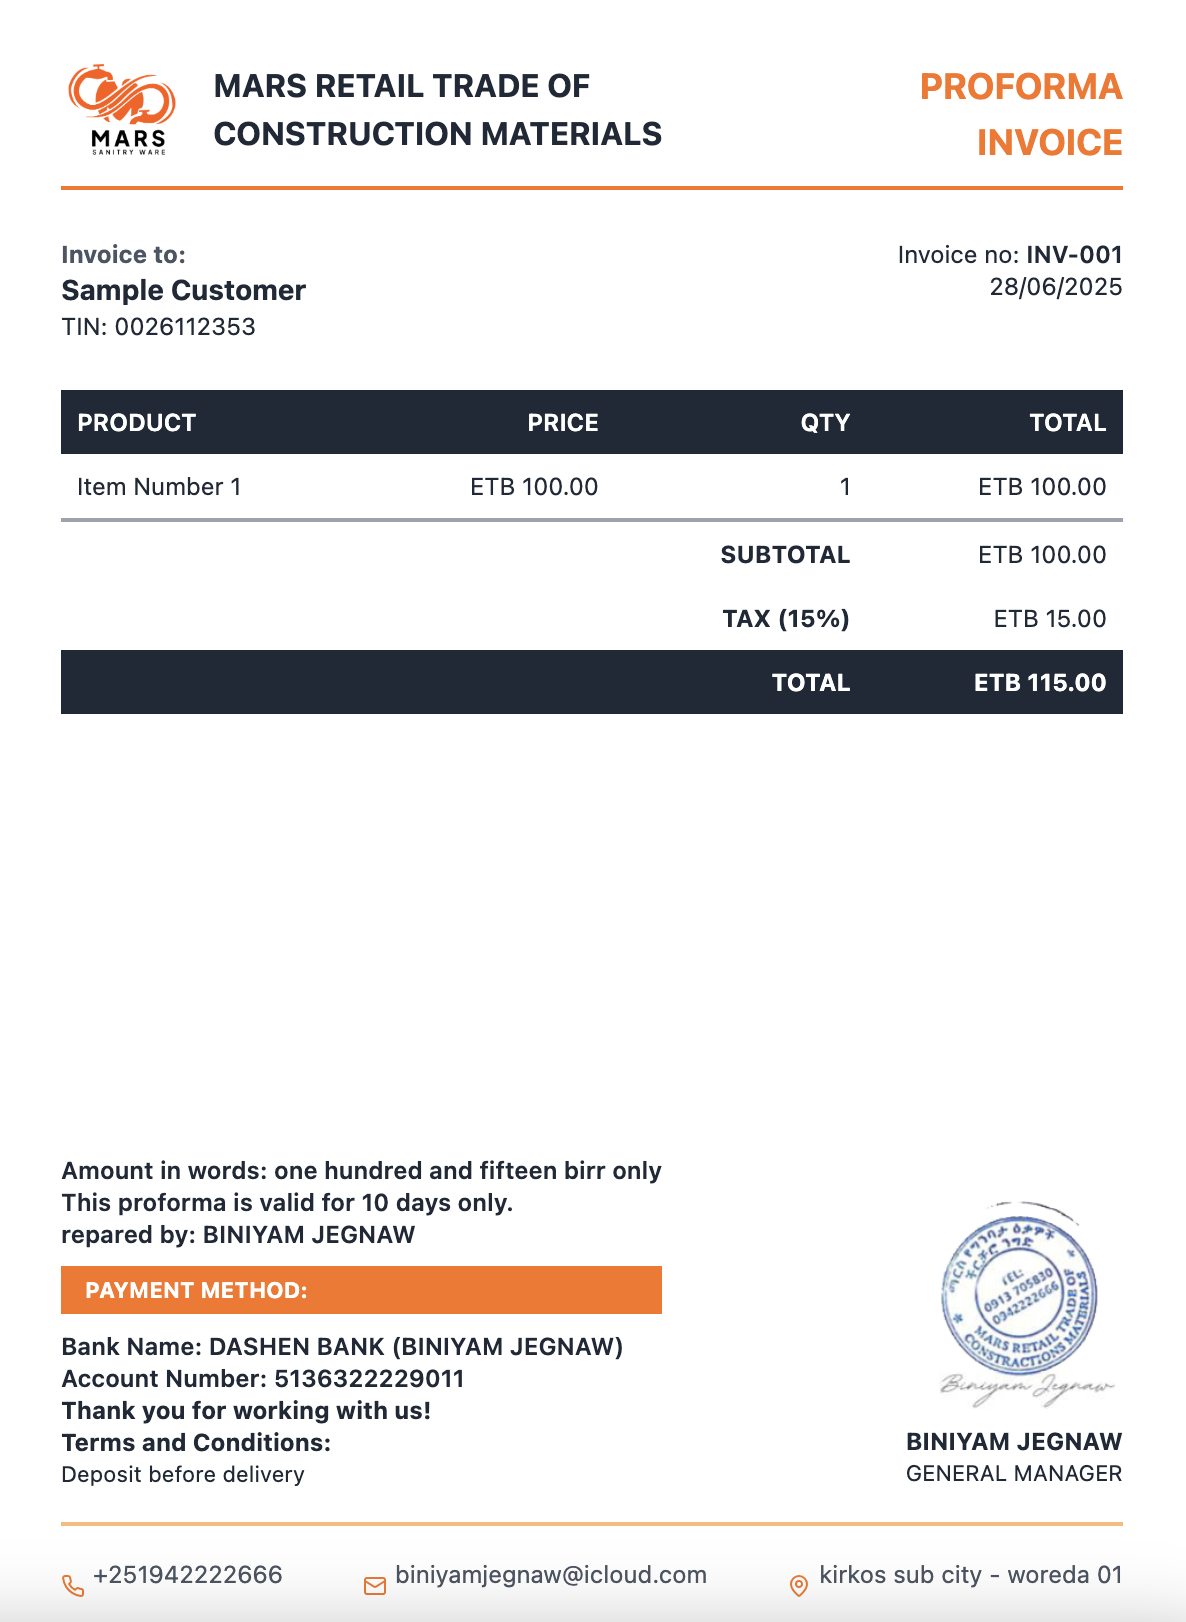
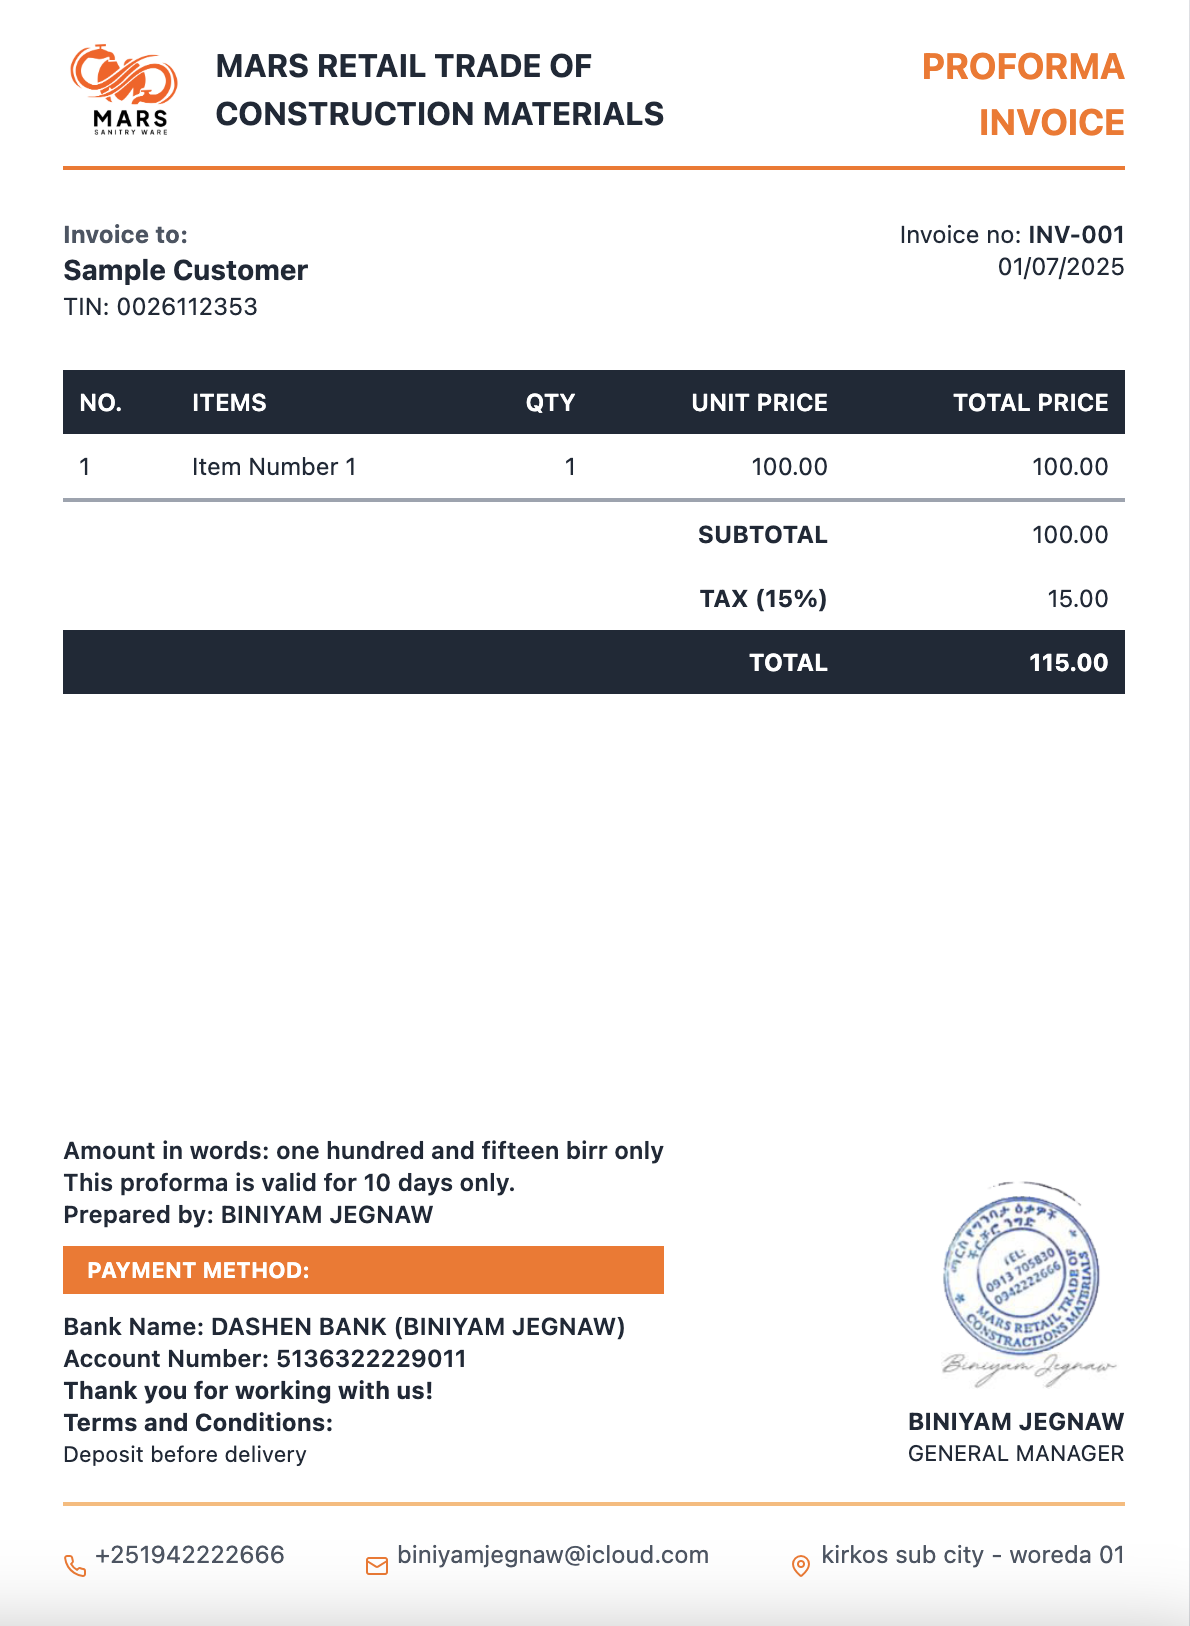
Refactor proforma templates to update table headers and pricing format

Changed region(s): [[0.0312, 0.0308, 0.9671, 0.4624], [0.0312, 0.6782, 0.9671, 0.9864], [0.9983, 0.0, 1.0, 1.0]]

diff --git a/components/templates/proforma-template-2.jsx b/components/templates/proforma-template-2.jsx
@@ -183,38 +183,40 @@ const ProformaTemplate2 = ({ data }) => {
               <table className="w-full text-left">
                 <thead>
                   <tr className="border-b-2 border-gray-200">
-                    <th className="p-2 text-sm font-semibold text-gray-500 uppercase">Product</th>
-                    <th className="p-2 text-right text-sm font-semibold text-gray-500 uppercase">Price</th>
-                    <th className="p-2 text-right text-sm font-semibold text-gray-500 uppercase">Qty</th>
-                    <th className="p-2 text-right text-sm font-semibold text-gray-500 uppercase">Total</th>
+                    <th className="p-2 text-sm font-semibold text-gray-500 uppercase">NO.</th>
+                    <th className="p-2 text-sm font-semibold text-gray-500 uppercase">ITEMS</th>
+                    <th className="p-2 text-right text-sm font-semibold text-gray-500 uppercase">QTY</th>
+                    <th className="p-2 text-right text-sm font-semibold text-gray-500 uppercase">UNIT PRICE</th>
+                    <th className="p-2 text-right text-sm font-semibold text-gray-500 uppercase">TOTAL PRICE</th>
                   </tr>
                 </thead>
                 <tbody>
                   {pageItems.map((item, index) => (
                     <tr key={index} className="border-b border-gray-100">
+                      <td className="p-2 text-sm">{index + 1}</td>
                       <td className="p-2 text-sm">{item.product}</td>
-                      <td className="p-2 text-right text-sm">ETB {Number.parseFloat(item.price || 0).toFixed(2)}</td>
                       <td className="p-2 text-right text-sm">{item.qty || 0}</td>
-                      <td className="p-2 text-right text-sm">ETB {((item.price || 0) * (item.qty || 0)).toFixed(2)}</td>
+                      <td className="p-2 text-right text-sm">{Number.parseFloat(item.price || 0).toFixed(2)}</td>
+                      <td className="p-2 text-right text-sm">{((item.price || 0) * (item.qty || 0)).toFixed(2)}</td>
                     </tr>
                   ))}
                 </tbody>
                 {pageIndex === paginatedItems.length - 1 && (
                   <tfoot>
                     <tr>
-                      <td colSpan="2" />
+                      <td colSpan="3" />
                       <td className="p-2 text-right text-sm text-gray-600">Subtotal</td>
-                      <td className="p-2 text-right text-sm">ETB {subtotal.toFixed(2)}</td>
+                      <td className="p-2 text-right text-sm">{subtotal.toFixed(2)}</td>
                     </tr>
                     <tr>
-                      <td colSpan="2" />
+                      <td colSpan="3" />
                       <td className="p-2 text-right text-sm text-gray-600">Tax ({data.taxRate}%)</td>
-                      <td className="p-2 text-right text-sm">ETB {taxAmount.toFixed(2)}</td>
+                      <td className="p-2 text-right text-sm">{taxAmount.toFixed(2)}</td>
                     </tr>
                     <tr className="font-bold">
-                      <td colSpan="2" />
+                      <td colSpan="3" />
                       <td className="p-2 text-right text-base">Total</td>
-                      <td className="p-2 text-right text-base">ETB {total.toFixed(2)}</td>
+                      <td className="p-2 text-right text-base">{total.toFixed(2)}</td>
                     </tr>
                   </tfoot>
                 )}

diff --git a/components/templates/proforma-template-4.jsx b/components/templates/proforma-template-4.jsx
@@ -193,38 +193,40 @@ const ProformaTemplate4 = ({ data, notValid }) => {
               <table className="w-full text-left">
                 <thead>
                   <tr className="bg-green-900 text-white">
-                    <th className="p-2 font-semibold text-xs">PRODUCT</th>
-                    <th className="p-2 text-right font-semibold text-xs">PRICE</th>
+                    <th className="p-2 font-semibold text-xs">NO.</th>
+                    <th className="p-2 font-semibold text-xs">ITEMS</th>
                     <th className="p-2 text-right font-semibold text-xs">QTY</th>
-                    <th className="p-2 text-right font-semibold text-xs">TOTAL</th>
+                    <th className="p-2 text-right font-semibold text-xs">UNIT PRICE</th>
+                    <th className="p-2 text-right font-semibold text-xs">TOTAL PRICE</th>
                   </tr>
                 </thead>
                 <tbody>
                   {pageItems.map((item, index) => (
                     <tr key={index} className="border-b border-green-200">
+                      <td className="p-2 text-xs">{index + 1}</td>
                       <td className="p-2 text-xs">{item.product}</td>
-                      <td className="p-2 text-right text-xs">ETB {Number.parseFloat(item.price || 0).toFixed(2)}</td>
                       <td className="p-2 text-right text-xs">{item.qty || 0}</td>
-                      <td className="p-2 text-right text-xs">ETB {((item.price || 0) * (item.qty || 0)).toFixed(2)}</td>
+                      <td className="p-2 text-right text-xs">{Number.parseFloat(item.price || 0).toFixed(2)}</td>
+                      <td className="p-2 text-right text-xs">{((item.price || 0) * (item.qty || 0)).toFixed(2)}</td>
                     </tr>
                   ))}
                 </tbody>
                 {pageIndex === paginatedItems.length - 1 && (
                   <tfoot>
                     <tr className="border-t-2 border-green-400">
-                      <td colSpan="2" />
+                      <td colSpan="3" />
                       <td className="p-2 text-right text-xs font-bold">SUBTOTAL</td>
-                      <td className="p-2 text-right text-xs">ETB {subtotal.toFixed(2)}</td>
+                      <td className="p-2 text-right text-xs">{subtotal.toFixed(2)}</td>
                     </tr>
                     <tr>
-                      <td colSpan="2" />
+                      <td colSpan="3" />
                       <td className="p-2 text-right text-xs font-bold">TAX ({data.taxRate}%)</td>
-                      <td className="p-2 text-right text-xs">ETB {taxAmount.toFixed(2)}</td>
+                      <td className="p-2 text-right text-xs">{taxAmount.toFixed(2)}</td>
                     </tr>
                     <tr className="bg-green-900 text-white">
-                      <td colSpan="2" />
+                      <td colSpan="3" />
                       <td className="p-2 text-right text-xs font-bold">TOTAL</td>
-                      <td className="p-2 text-right text-xs font-bold">ETB {total.toFixed(2)}</td>
+                      <td className="p-2 text-right text-xs font-bold">{total.toFixed(2)}</td>
                     </tr>
                   </tfoot>
                 )}

diff --git a/components/templates/proforma-template-3.jsx b/components/templates/proforma-template-3.jsx
@@ -193,38 +193,40 @@ const ProformaTemplate3 = ({ data, notValid }) => {
               <table className="w-full text-left">
                 <thead>
                   <tr className="bg-blue-900 text-white">
-                    <th className="p-2 font-semibold text-xs">PRODUCT</th>
-                    <th className="p-2 text-right font-semibold text-xs">PRICE</th>
+                    <th className="p-2 font-semibold text-xs">NO.</th>
+                    <th className="p-2 font-semibold text-xs">ITEMS</th>
                     <th className="p-2 text-right font-semibold text-xs">QTY</th>
-                    <th className="p-2 text-right font-semibold text-xs">TOTAL</th>
+                    <th className="p-2 text-right font-semibold text-xs">UNIT PRICE</th>
+                    <th className="p-2 text-right font-semibold text-xs">TOTAL PRICE</th>
                   </tr>
                 </thead>
                 <tbody>
                   {pageItems.map((item, index) => (
                     <tr key={index} className="border-b border-blue-200">
+                      <td className="p-2 text-xs">{index + 1}</td>
                       <td className="p-2 text-xs">{item.product}</td>
-                      <td className="p-2 text-right text-xs">ETB {Number.parseFloat(item.price || 0).toFixed(2)}</td>
                       <td className="p-2 text-right text-xs">{item.qty || 0}</td>
-                      <td className="p-2 text-right text-xs">ETB {((item.price || 0) * (item.qty || 0)).toFixed(2)}</td>
+                      <td className="p-2 text-right text-xs">{Number.parseFloat(item.price || 0).toFixed(2)}</td>
+                      <td className="p-2 text-right text-xs">{((item.price || 0) * (item.qty || 0)).toFixed(2)}</td>
                     </tr>
                   ))}
                 </tbody>
                 {pageIndex === paginatedItems.length - 1 && (
                   <tfoot>
                     <tr className="border-t-2 border-blue-400">
-                      <td colSpan="2" />
+                      <td colSpan="3" />
                       <td className="p-2 text-right text-xs font-bold">SUBTOTAL</td>
-                      <td className="p-2 text-right text-xs">ETB {subtotal.toFixed(2)}</td>
+                      <td className="p-2 text-right text-xs">{subtotal.toFixed(2)}</td>
                     </tr>
                     <tr>
-                      <td colSpan="2" />
+                      <td colSpan="3" />
                       <td className="p-2 text-right text-xs font-bold">TAX ({data.taxRate}%)</td>
-                      <td className="p-2 text-right text-xs">ETB {taxAmount.toFixed(2)}</td>
+                      <td className="p-2 text-right text-xs">{taxAmount.toFixed(2)}</td>
                     </tr>
                     <tr className="bg-blue-900 text-white">
-                      <td colSpan="2" />
+                      <td colSpan="3" />
                       <td className="p-2 text-right text-xs font-bold">TOTAL</td>
-                      <td className="p-2 text-right text-xs font-bold">ETB {total.toFixed(2)}</td>
+                      <td className="p-2 text-right text-xs font-bold">{total.toFixed(2)}</td>
                     </tr>
                   </tfoot>
                 )}

diff --git a/components/templates/proforma-template-1.jsx b/components/templates/proforma-template-1.jsx
@@ -195,38 +195,40 @@ const ProformaTemplate1 = ({ data, notValid }) => {
               <table className="w-full text-left">
                 <thead>
                   <tr className="bg-gray-800 text-white">
-                    <th className="p-2 font-semibold text-xs">PRODUCT</th>
-                    <th className="p-2 text-right font-semibold text-xs">PRICE</th>
+                    <th className="p-2 font-semibold text-xs">NO.</th>
+                    <th className="p-2 font-semibold text-xs">ITEMS</th>
                     <th className="p-2 text-right font-semibold text-xs">QTY</th>
-                    <th className="p-2 text-right font-semibold text-xs">TOTAL</th>
+                    <th className="p-2 text-right font-semibold text-xs">UNIT PRICE</th>
+                    <th className="p-2 text-right font-semibold text-xs">TOTAL PRICE</th>
                   </tr>
                 </thead>
                 <tbody>
                   {pageItems.map((item, index) => (
                     <tr key={index} className="border-b">
+                      <td className="p-2 text-xs">{index + 1}</td>
                       <td className="p-2 text-xs">{item.product}</td>
-                      <td className="p-2 text-right text-xs">ETB {Number.parseFloat(item.price || 0).toFixed(2)}</td>
                       <td className="p-2 text-right text-xs">{item.qty || 0}</td>
-                      <td className="p-2 text-right text-xs">ETB {((item.price || 0) * (item.qty || 0)).toFixed(2)}</td>
+                      <td className="p-2 text-right text-xs">{Number.parseFloat(item.price || 0).toFixed(2)}</td>
+                      <td className="p-2 text-right text-xs">{((item.price || 0) * (item.qty || 0)).toFixed(2)}</td>
                     </tr>
                   ))}
                 </tbody>
                 {pageIndex === paginatedItems.length - 1 && (
                   <tfoot>
                     <tr className="border-t-2 border-gray-400">
-                      <td colSpan="2" />
+                      <td colSpan="3" />
                       <td className="p-2 text-right text-xs font-bold">SUBTOTAL</td>
-                      <td className="p-2 text-right text-xs">ETB {subtotal.toFixed(2)}</td>
+                      <td className="p-2 text-right text-xs">{subtotal.toFixed(2)}</td>
                     </tr>
                     <tr>
-                      <td colSpan="2" />
+                      <td colSpan="3" />
                       <td className="p-2 text-right text-xs font-bold">TAX ({data.taxRate}%)</td>
-                      <td className="p-2 text-right text-xs">ETB {taxAmount.toFixed(2)}</td>
+                      <td className="p-2 text-right text-xs">{taxAmount.toFixed(2)}</td>
                     </tr>
                     <tr className="bg-gray-800 text-white">
-                      <td colSpan="2" />
+                      <td colSpan="3" />
                       <td className="p-2 text-right text-xs font-bold">TOTAL</td>
-                      <td className="p-2 text-right text-xs font-bold">ETB {total.toFixed(2)}</td>
+                      <td className="p-2 text-right text-xs font-bold">{total.toFixed(2)}</td>
                     </tr>
                   </tfoot>
                 )}
